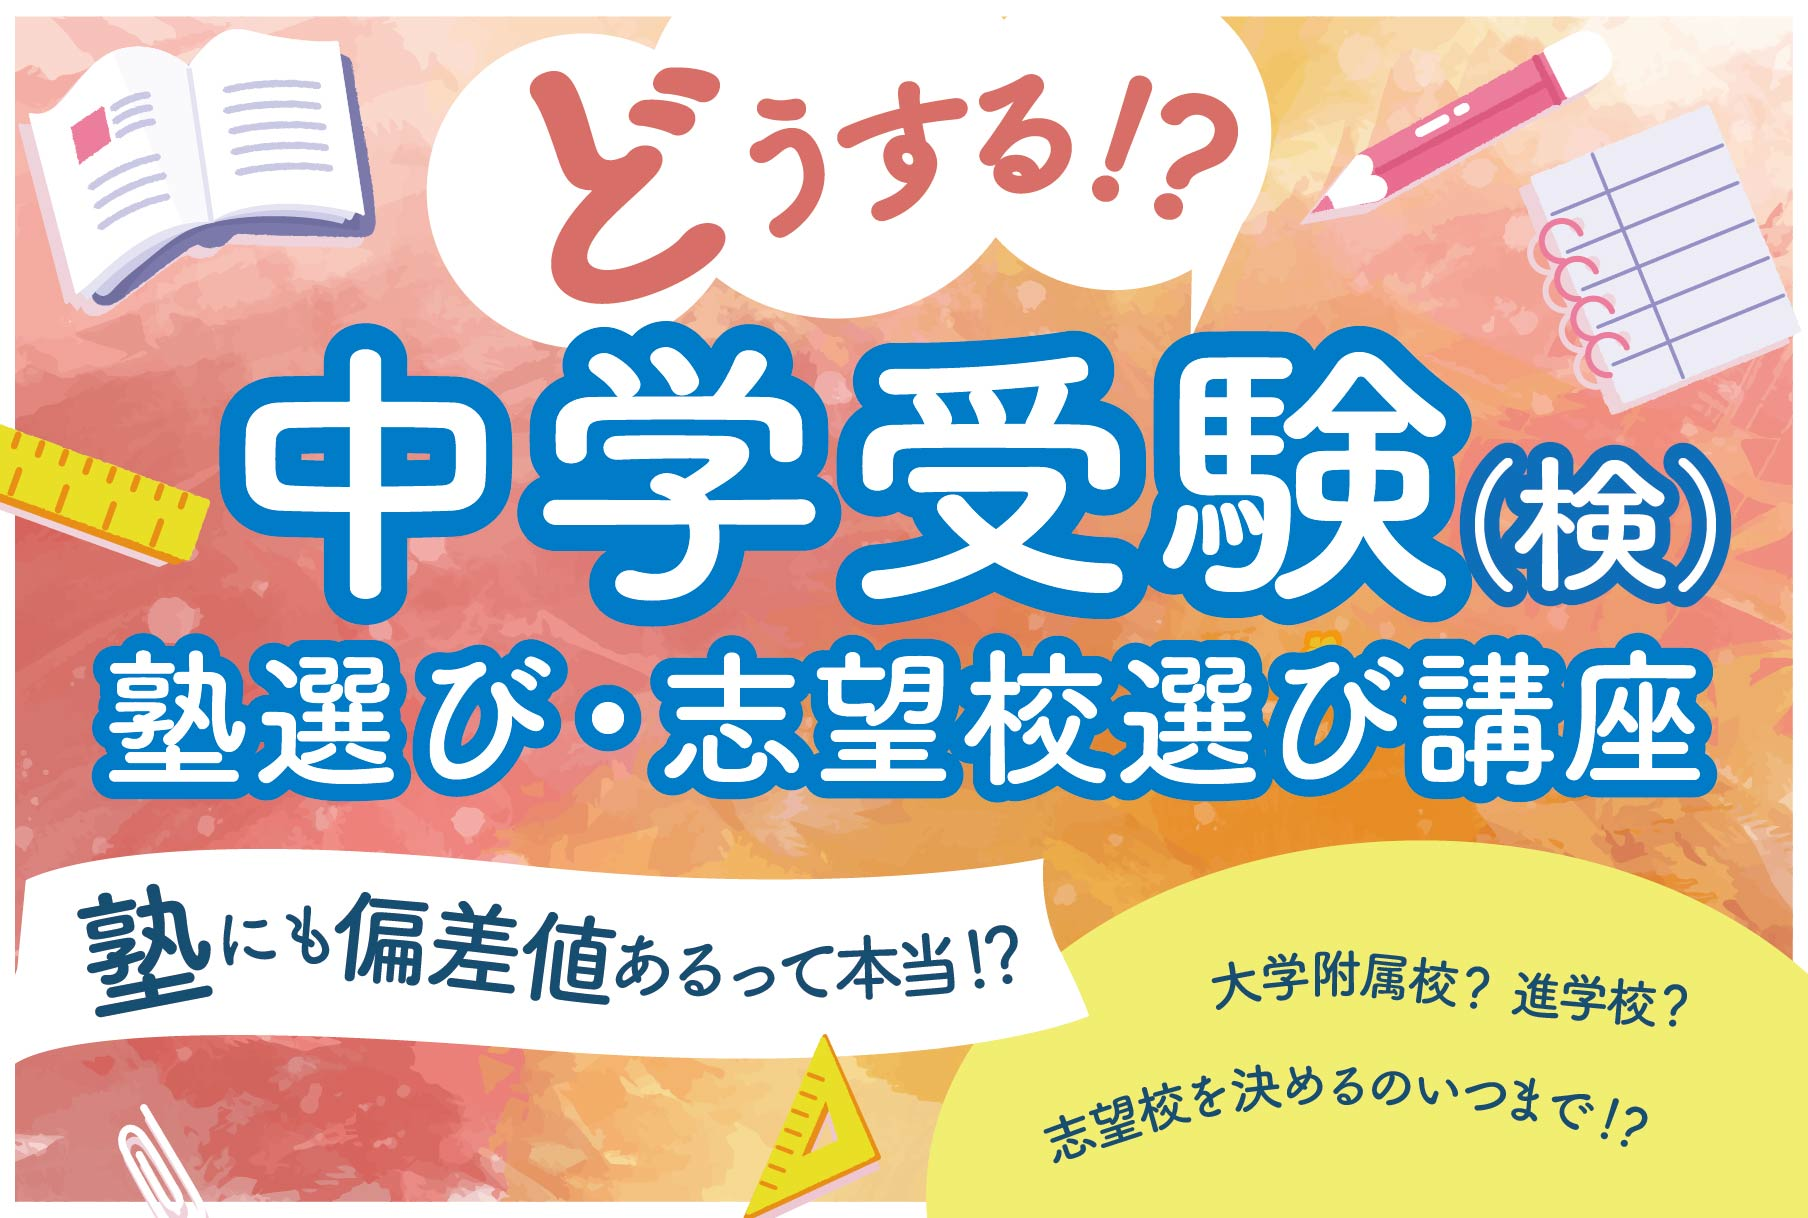
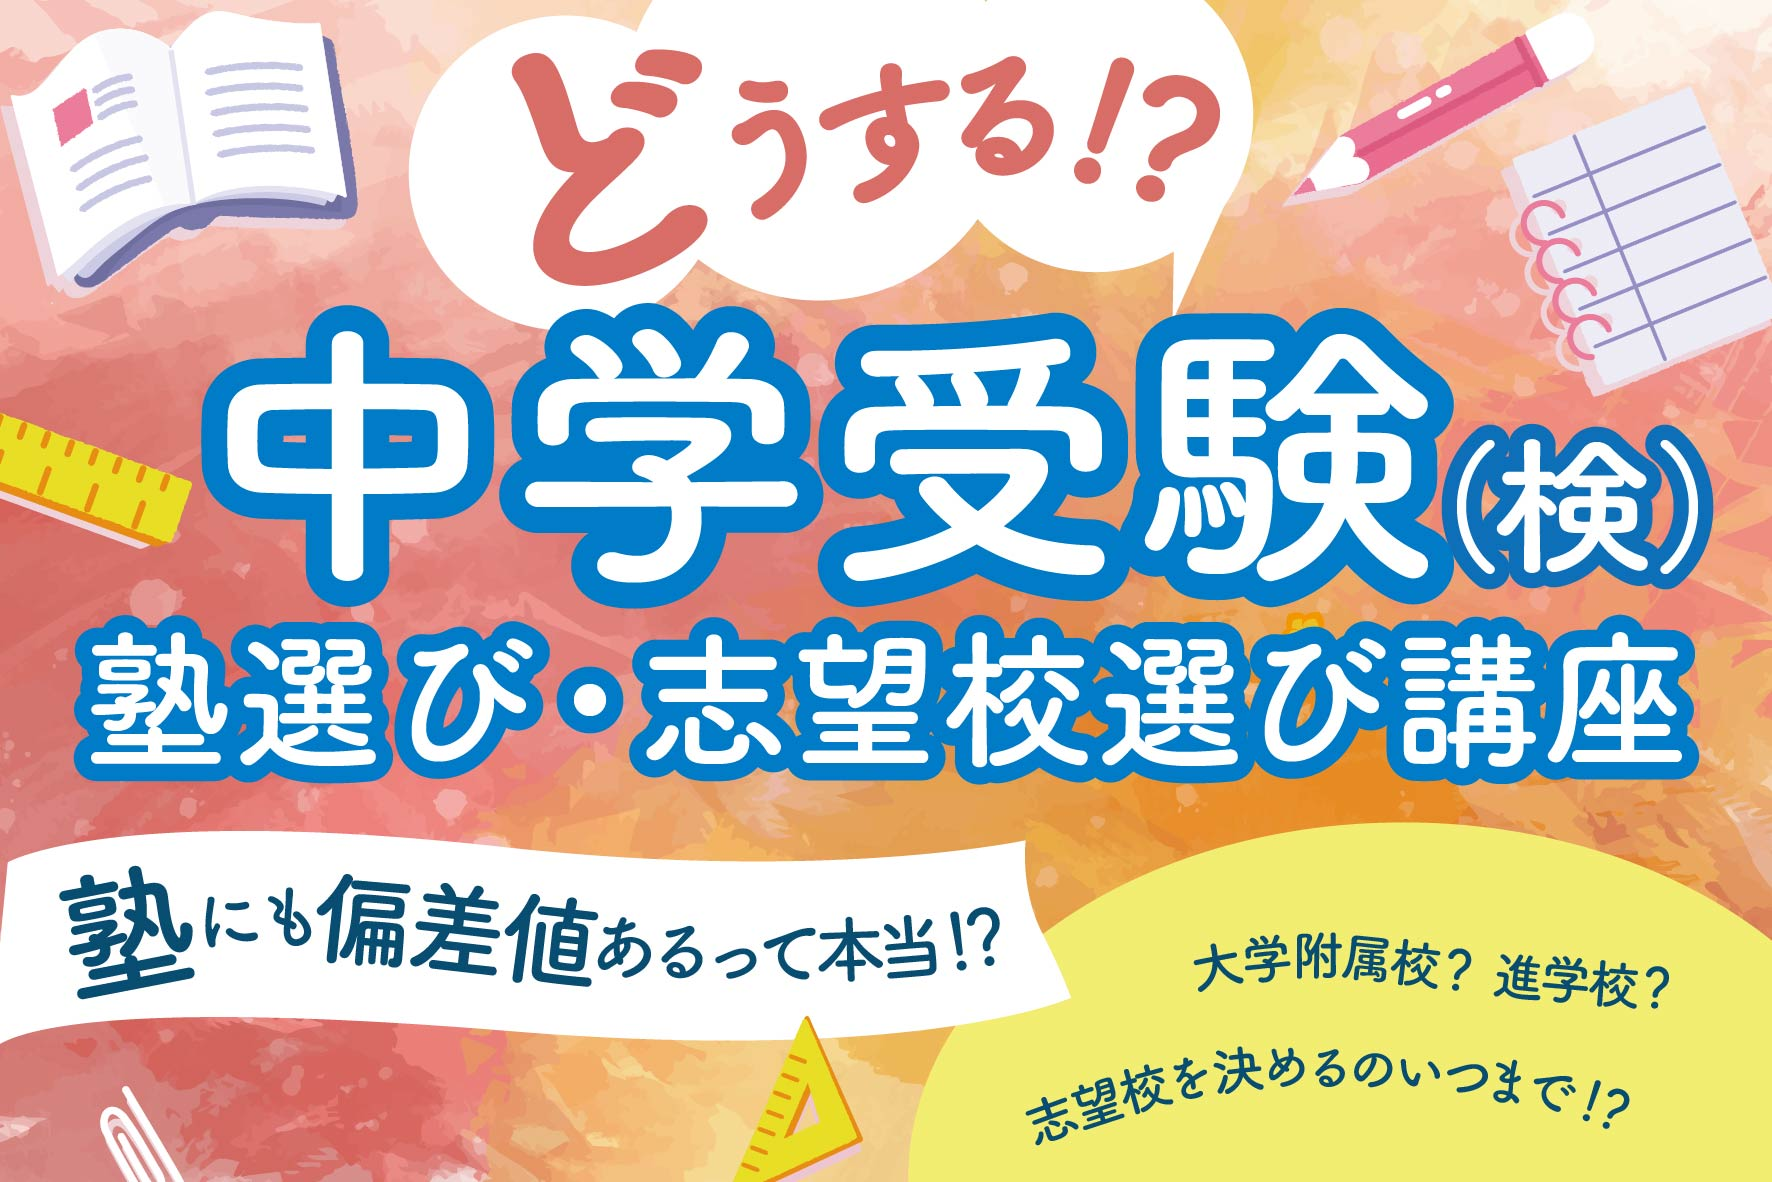
体験記カード9枚に

Changed region(s): [[0.0, 0.0, 1.0, 1.0], [0.5587, 0.7614, 0.9622, 0.9746], [0.6828, 0.1827, 0.7139, 0.2132]]

diff --git a/voices.html b/voices.html
@@ -6,7 +6,7 @@
 <title>体験記｜個別指導イーナ</title>
 <meta name="description" content="通ってくださっている保護者さまから寄せられた、授業についての体験記をご紹介します。">
 <link rel="icon" href="assets/logo.webp">
-<link rel="stylesheet" href="style.css?v=20260724-3">
+<link rel="stylesheet" href="style.css?v=20260724-4">
 </head>
 <body>
 
@@ -52,6 +52,42 @@
           <span>画像準備中</span>
         </div>
         <p class="voice-card-caption">体験記3のキャプション（準備中）</p>
+      </article>
+      <article class="voice-card">
+        <div class="voice-card-placeholder" role="img" aria-label="体験記画像を準備中">
+          <span>画像準備中</span>
+        </div>
+        <p class="voice-card-caption">体験記4のキャプション（準備中）</p>
+      </article>
+      <article class="voice-card">
+        <div class="voice-card-placeholder" role="img" aria-label="体験記画像を準備中">
+          <span>画像準備中</span>
+        </div>
+        <p class="voice-card-caption">体験記5のキャプション（準備中）</p>
+      </article>
+      <article class="voice-card">
+        <div class="voice-card-placeholder" role="img" aria-label="体験記画像を準備中">
+          <span>画像準備中</span>
+        </div>
+        <p class="voice-card-caption">体験記6のキャプション（準備中）</p>
+      </article>
+      <article class="voice-card">
+        <div class="voice-card-placeholder" role="img" aria-label="体験記画像を準備中">
+          <span>画像準備中</span>
+        </div>
+        <p class="voice-card-caption">体験記7のキャプション（準備中）</p>
+      </article>
+      <article class="voice-card">
+        <div class="voice-card-placeholder" role="img" aria-label="体験記画像を準備中">
+          <span>画像準備中</span>
+        </div>
+        <p class="voice-card-caption">体験記8のキャプション（準備中）</p>
+      </article>
+      <article class="voice-card">
+        <div class="voice-card-placeholder" role="img" aria-label="体験記画像を準備中">
+          <span>画像準備中</span>
+        </div>
+        <p class="voice-card-caption">体験記9のキャプション（準備中）</p>
       </article>
     </div>
   </div>

diff --git a/style.css b/style.css
@@ -114,12 +114,12 @@ p,li,summary{word-break:auto-phrase;text-wrap:pretty}
 .home-hero .hero-copy{padding-top:8px;padding-bottom:38px;background:var(--white)}
 .home-hero .lead{max-width:850px;margin-bottom:0}
 .hero-slider{overflow:hidden;margin-top:0;border:0;background:linear-gradient(90deg, #c0d2ed 0%, #c7e0c3 100%)}
-.slides{position:relative;height:clamp(260px,31vh,350px);display:flex;touch-action:pan-y pinch-zoom;cursor:grab;user-select:none;transition:transform .7s cubic-bezier(.65,0,.35,1);will-change:transform}
+.slides{position:relative;height:clamp(350px,42vw,550px);display:flex;touch-action:pan-y pinch-zoom;cursor:grab;user-select:none;transition:transform .7s cubic-bezier(.65,0,.35,1);will-change:transform}
 .slides.is-dragging{cursor:grabbing}
 .slides.no-transition{transition:none}
 .slide{height:100%;min-width:100%;flex:0 0 100%;margin:0;background:linear-gradient(90deg, #c0d2ed 0%, #c7e0c3 100%)}
 .slide picture,.slide img{display:block;width:100%;height:100%}
-.slide img{object-fit:contain;object-position:center;background:linear-gradient(90deg, #c0d2ed 0%, #c7e0c3 100%);pointer-events:none;-webkit-user-drag:none}
+.slide img{object-fit:cover;object-position:center;background:linear-gradient(90deg, #c0d2ed 0%, #c7e0c3 100%);pointer-events:none;-webkit-user-drag:none}
 .slider-meta.container{width:100%;max-width:none;padding-right:max(20px,calc((100% - var(--max))/2));padding-left:max(20px,calc((100% - var(--max))/2))}
 .slider-meta{min-height:62px;display:flex;align-items:center;justify-content:space-between;gap:20px;background:var(--white)}
 .slider-caption{margin:0;padding:12px 0;color:var(--navy);font-size:var(--text-size)}

diff --git a/contact.html b/contact.html
@@ -6,7 +6,7 @@
 <title>学習相談・体験授業｜個別指導イーナ</title>
 <meta name="description" content="無料学習相談、有料学習相談、体験授業、講習会、料金表PDFの請求窓口です。">
 <link rel="icon" href="assets/logo.webp">
-<link rel="stylesheet" href="style.css?v=20260724-3">
+<link rel="stylesheet" href="style.css?v=20260724-4">
 </head>
 <body>
 

diff --git a/index.html b/index.html
@@ -6,7 +6,7 @@
 <title>勉強嫌いを変える個別指導｜個別指導イーナ</title>
 <meta name="description" content="なみ先生が、お子さまの学力や特性に合わせて対話型の個別指導を行います。駒込、笹塚、オンラインに対応。">
 <link rel="icon" href="assets/logo.webp">
-<link rel="stylesheet" href="style.css?v=20260724-3">
+<link rel="stylesheet" href="style.css?v=20260724-4">
 </head>
 <body class="home">
 

diff --git a/pricing.html b/pricing.html
@@ -6,7 +6,7 @@
 <title>料金｜個別指導イーナ</title>
 <meta name="description" content="個別指導イーナの月謝、入会金、その他費用の概要です。詳細料金表はお問い合わせ後にPDFでご案内します。">
 <link rel="icon" href="assets/logo.webp">
-<link rel="stylesheet" href="style.css?v=20260724-3">
+<link rel="stylesheet" href="style.css?v=20260724-4">
 </head>
 <body>
 